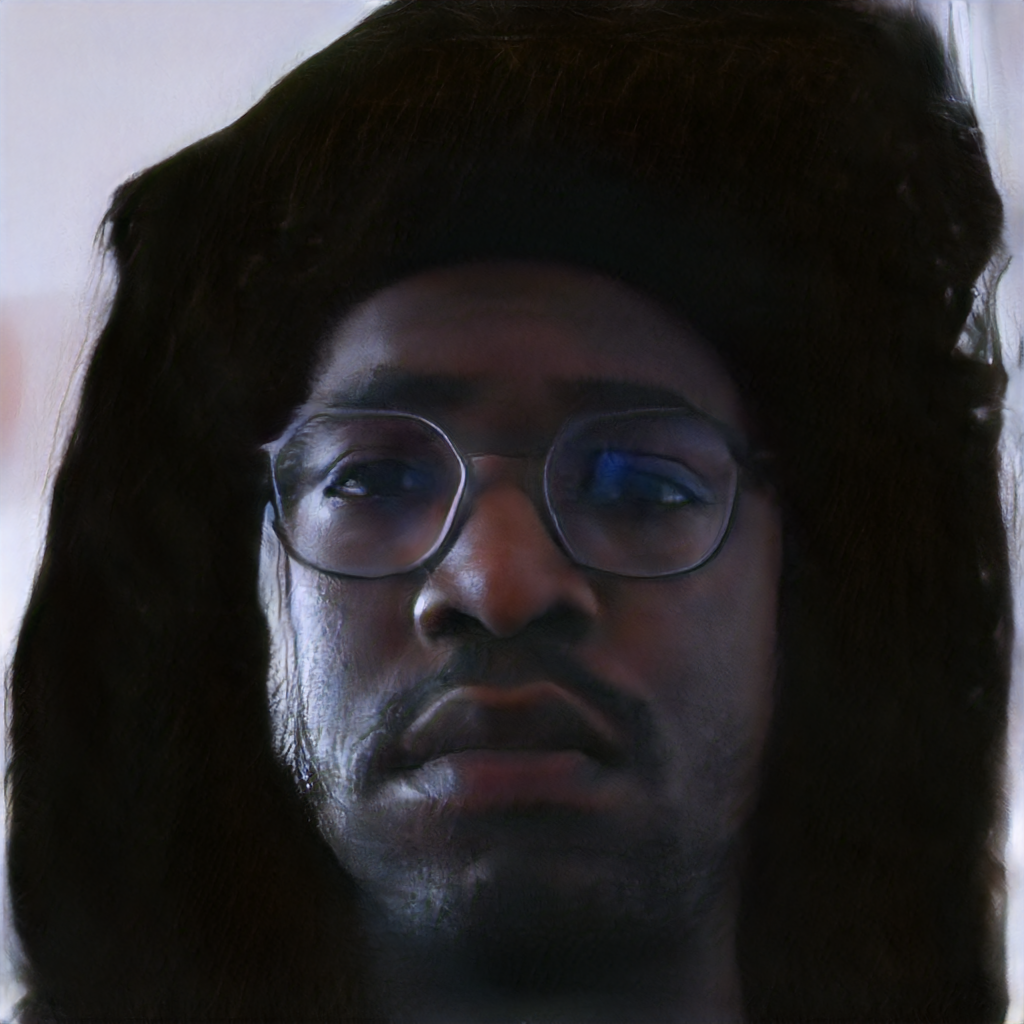
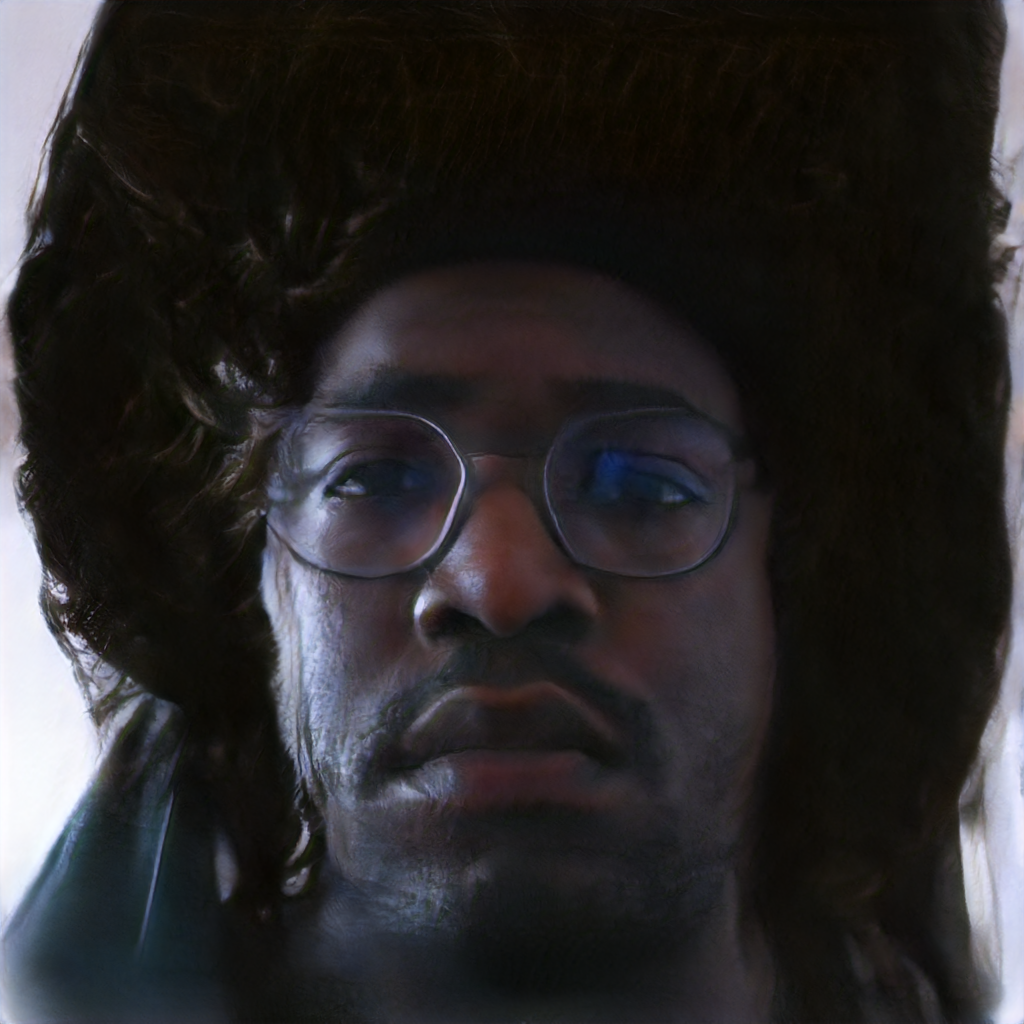
Teste une reference de forme curly plus lumineuse, et un post-traitement CLAHE
- refs/shape_curly.jpg : nouvelle reference (fond studio blanc, luminance
  200/255) pour voir si une reference plus lumineuse donne un rendu moins
  sombre. Resultat : non, le rendu curly reste le plus sombre des 4 formes
  (luminance zone cheveux 17.7/255, contre 23.5-26.5 pour les 3 autres) -
  confirme que la luminosite de sortie de HairFastGAN depend des modules
  appris (CLIP blending + post-process), pas de la luminosite brute de la
  reference.
- relight_hair.py : essai de correction par CLAHE (contraste local sur le
  canal L) - resultat rejete (coiffure brouillee, perte de qualite), garde
  a titre de trace.
- _measure_luminance.py : mesure la luminance globale et la luminance de
  la zone cheveux (segmentation MediaPipe) d'un rendu, pour comparer les
  essais objectivement.

diff --git a/_measure_luminance.py b/_measure_luminance.py
@@ -1,0 +1,49 @@
+"""
+Mesure la luminance globale et la luminance de la zone "cheveux" (via le
+même segmenteur MediaPipe que recolor_hair.py) d'une image de sortie
+HairFastGAN, pour comparer objectivement les essais de référence de forme.
+"""
+import sys
+import cv2
+import numpy as np
+import mediapipe as mp
+from mediapipe.tasks import python as mp_python
+from mediapipe.tasks.python import vision
+
+MODEL = "models/hair_segmenter.tflite"
+
+
+def get_hair_mask_bool(bgr):
+    base_options = mp_python.BaseOptions(model_asset_path=MODEL)
+    options = vision.ImageSegmenterOptions(base_options=base_options, output_category_mask=True)
+    with vision.ImageSegmenter.create_from_options(options) as segmenter:
+        mp_image = mp.Image(image_format=mp.ImageFormat.SRGB, data=cv2.cvtColor(bgr, cv2.COLOR_BGR2RGB))
+        result = segmenter.segment(mp_image)
+    mask = result.category_mask.numpy_view().squeeze()
+    return mask > 0
+
+
+def luminance(bgr):
+    b, g, r = bgr[..., 0].astype(np.float32), bgr[..., 1].astype(np.float32), bgr[..., 2].astype(np.float32)
+    return 0.299 * r + 0.587 * g + 0.114 * b
+
+
+def main(path):
+    bgr = cv2.imread(path)
+    if bgr is None:
+        raise FileNotFoundError(path)
+    lum = luminance(bgr)
+    print(f"{path}")
+    print(f"  luminance globale : {lum.mean():.1f} / 255")
+    try:
+        mask = get_hair_mask_bool(bgr)
+        if mask.sum() > 0:
+            print(f"  luminance zone cheveux : {lum[mask].mean():.1f} / 255  ({mask.sum()} px)")
+        else:
+            print("  aucun pixel cheveux détecté")
+    except Exception as e:
+        print("  (segmentation cheveux impossible:", e, ")")
+
+
+if __name__ == "__main__":
+    main(sys.argv[1])

diff --git a/relight_hair.py b/relight_hair.py
@@ -1,0 +1,44 @@
+"""
+Corrige l'exposition des rendus HairFastGAN (results/forme_*.png), qui
+ressortent systématiquement trop sombres sur cheveux/peau foncés (biais
+connu du StyleGAN2 entraîné sur FFHQ, indépendant de la qualité de la
+photo source — cf. mesures faites en session).
+
+CLAHE (contraste local adaptatif) sur le canal L (Lab) plutôt qu'un
+simple gamma/brightness : un gamma uniforme délave toute l'image parce
+que l'info est comprimée sur une plage de valeurs très étroite (~4-25
+sur 255) ; CLAHE relève le contraste PAR ZONE, ce qui fait ressortir les
+variations déjà présentes dans le rendu (et donc les reflets qui suivent
+la forme des mèches) sans toucher la teinte (canaux a/b inchangés).
+"""
+import os
+import cv2
+
+RESULTS_DIR = "results"
+CLIP_LIMIT = 3.0
+TILE_SIZE = 8
+
+
+def relight(bgr):
+    lab = cv2.cvtColor(bgr, cv2.COLOR_BGR2LAB)
+    l, a, b = cv2.split(lab)
+    clahe = cv2.createCLAHE(clipLimit=CLIP_LIMIT, tileGridSize=(TILE_SIZE, TILE_SIZE))
+    l = clahe.apply(l)
+    return cv2.cvtColor(cv2.merge([l, a, b]), cv2.COLOR_LAB2BGR)
+
+
+def main(names=None):
+    names = names or ["forme_lisse", "forme_ondulee", "forme_tres_ondulee", "forme_curly"]
+    for name in names:
+        src = os.path.join(RESULTS_DIR, f"{name}.png")
+        if not os.path.exists(src):
+            print("!! introuvable:", src)
+            continue
+        out = relight(cv2.imread(src))
+        dst = os.path.join(RESULTS_DIR, f"{name}_clair.png")
+        cv2.imwrite(dst, out)
+        print("->", dst)
+
+
+if __name__ == "__main__":
+    main()
